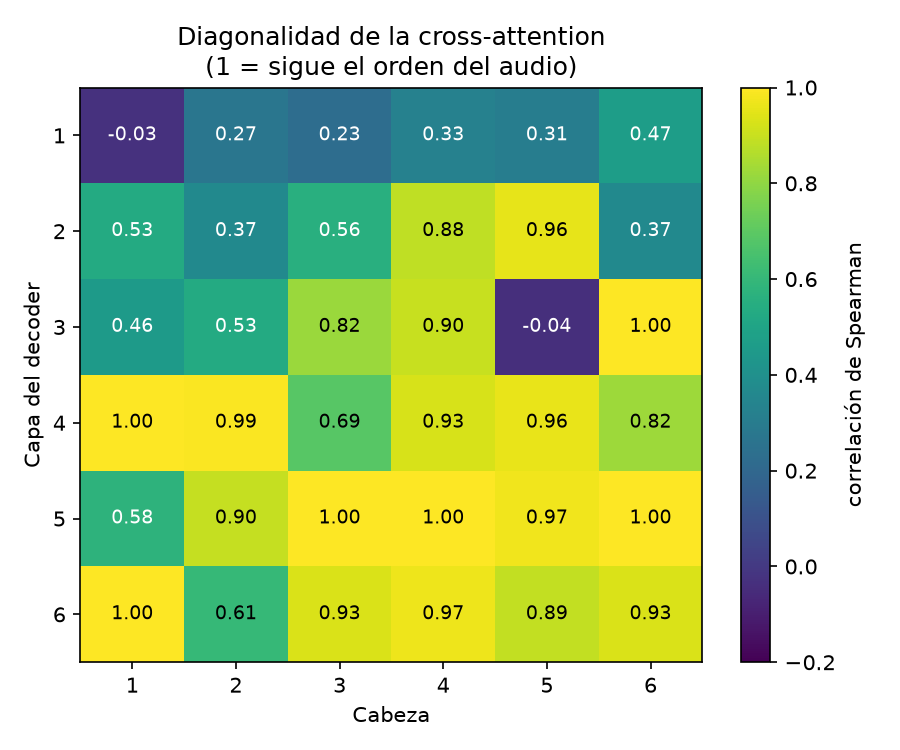
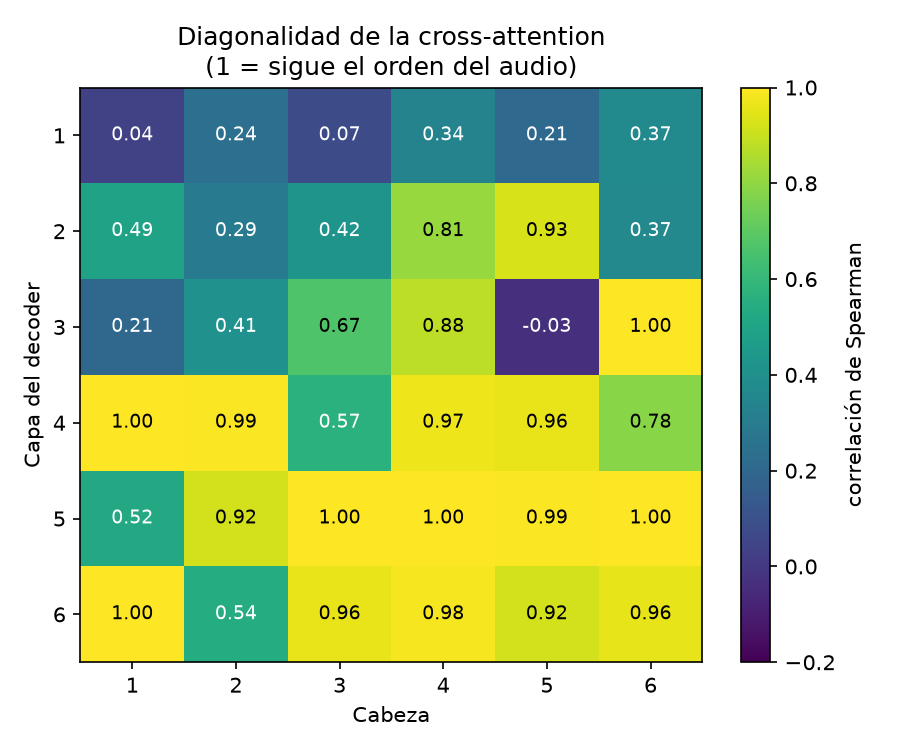
Seccion 6: resultados con 36 frases (392 palabras), libro vs cotidiano, IC95 bootstrap

diff --git a/scripts/graficar_resultados.py b/scripts/graficar_resultados.py
@@ -82,3 +82,50 @@ if mu:
               f"primeras {k} de {len(ref)} palabras (suponiendo ritmo constante): WER ≈ {w:.3f}")
     except ImportError:
         print("(instala jiwer para calcular el WER de muylarga sobre la parte procesada)")
+
+# --- libro contra frases cotidianas (WER global por grupo, con IC95 bootstrap por frase)
+import random
+
+def _grupo(f):
+    a = f["archivo"]
+    if a.startswith(("corta", "media")):
+        return "libro"
+    if a.startswith("diaria"):
+        return "cotidiano"
+    return None
+
+def _wer(rows):
+    e = sum(float(f["wer"]) * int(f["palabras_ref"]) for f in rows)
+    p = sum(int(f["palabras_ref"]) for f in rows)
+    return 100 * e / p
+
+grupos = {"libro": [], "cotidiano": []}
+for f in filas:
+    g = _grupo(f)
+    if g:
+        grupos[g].append(f)
+if grupos["cotidiano"]:
+    random.seed(1)
+    est = {}
+    for g, rows in grupos.items():
+        boot = sorted(_wer([random.choice(rows) for _ in rows]) for _ in range(5000))
+        est[g] = (_wer(rows), boot[125], boot[4875], sum(int(f["palabras_ref"]) for f in rows))
+        print(f"{g}: WER {est[g][0]:.1f} % (IC95 {est[g][1]:.1f}-{est[g][2]:.1f}), {est[g][3]} palabras")
+    dif = sorted(_wer([random.choice(grupos['libro']) for _ in grupos['libro']])
+                 - _wer([random.choice(grupos['cotidiano']) for _ in grupos['cotidiano']]) for _ in range(5000))
+    print(f"Diferencia libro - cotidiano: {est['libro'][0]-est['cotidiano'][0]:.1f} puntos (IC95 {dif[125]:.1f} a {dif[4875]:.1f})")
+    fig, ax = plt.subplots(figsize=(6, 4))
+    xs_ = list(est)
+    vals = [est[g][0] for g in xs_]
+    err = [[est[g][0] - est[g][1] for g in xs_], [est[g][2] - est[g][0] for g in xs_]]
+    ax.bar(xs_, vals, yerr=err, capsize=6, color=["#C98B6B", "#6A9BC3"])
+    ax.axhline(18.5, color="#555", ls="--", lw=1)
+    ax.text(1.45, 19.2, "artículo: 18.5 %", ha="right", fontsize=8, color="#555")
+    for i, g in enumerate(xs_):
+        ax.text(i, 1.5, f"n = {est[g][3]} palabras", ha="center", fontsize=8, color="white")
+    ax.set_ylabel("WER (%)")
+    ax.set_ylim(0, 40)
+    ax.set_title("WER: frases del libro vs frases cotidianas\n(barras de error: IC 95 % por remuestreo de frases)")
+    fig.tight_layout()
+    fig.savefig(carpeta / "p1_libro_vs_cotidiano.png", dpi=150)
+    plt.close(fig)

diff --git a/README.md b/README.md
@@ -1710,117 +1710,131 @@ La primera prueba documentada de la aplicación, con su captura de pantalla en [
 
 #### 6.10.1 Diseño de las pruebas con referencia
 
-Para medir el error se grabaron 13 audios con la voz del autor, en un computador
+Para medir el error se grabaron 44 audios con la voz del autor, en un computador
 Windows sin GPU, con `ctc_weight = 0` y *beam search* de 5 (la configuración de la
-aplicación). El texto de referencia son fragmentos de la novela *Noches blancas*
-de Dostoievski (traducción al español de una edición digital libre), leídos en
-voz alta; los fragmentos y los audios no se publican en el repositorio.
+aplicación). Hay dos tipos de texto de referencia, para poder comparar:
+
+- **Libro:** 24 frases de *Noches blancas* de Dostoievski (traducción al español de
+  una edición digital libre), de 6 a 15 palabras. Es lenguaje literario del siglo
+  XIX, con palabras poco frecuentes.
+- **Cotidiano:** 12 frases escritas por nosotros, de 8 a 12 palabras, sobre
+  situaciones de todos los días (café, reunión, bus, llaves).
+
+Los fragmentos del libro y los audios no se publican en el repositorio.
 
 | Grupo | Audios | Contenido |
 |---|---|---|
-| Frases cortas | `corta01` a `corta04` | 9 a 10 palabras |
-| Frases medias | `media01` a `media04` | 13 a 16 palabras |
+| Frases del libro | `corta01` a `corta12`, `media01` a `media12` | 24 frases, 256 palabras |
+| Frases cotidianas | `diaria01` a `diaria12` | 12 frases, 136 palabras |
 | Largo | `larga` (26 s), `muylarga` (42 s) | 68 y 109 palabras; `muylarga` supera la ventana de 30 s |
-| Inglés | `ingles01` | Una frase de 13 palabras |
+| Inglés | `ingles01` a `ingles04` | 4 frases de 10 a 13 palabras |
 | Traducción | `traduccion01` | Una frase en español pedida con `<st_eng>` |
 | Silencio | `silencio` (19 s) | Sin hablar |
 
-Las pruebas con ruido y de *beam search* usan solo las 8 frases cortas y medias
-(94 palabras). Antes de calcular el error, ambos textos se normalizan: minúsculas,
-sin puntuación y números escritos con palabras. Todo se ejecutó con
-`scripts/evaluar.py` (sección 6.11) y las cifras salen de `resultados/`.
+Las pruebas con ruido y de *beam search* usan las 36 frases (392 palabras). Antes de
+calcular el error, ambos textos se normalizan: minúsculas, sin puntuación y números
+escritos con palabras. Todo se ejecutó con `scripts/evaluar.py` (sección 6.11).
+
+Con pocas palabras, el WER cambia mucho de una muestra a otra. Por eso, en esta
+sección el WER global se acompaña de un **intervalo de confianza del 95 %**,
+calculado remuestreando frases completas (*bootstrap*, 5000 repeticiones).
 
 #### 6.10.2 Precisión: WER y CER
 
-| Audio | Duración (s) | Palabras ref. | Tokens | Tiempo (s) | RTF | Confianza | WER | CER |
-|---|---|---|---|---|---|---|---|---|
-| corta01 | 11.1 | 9 | 13 | 3.7 | 0.33 | 0.80 | 22.2 % | 5.8 % |
-| corta02 | 6.6 | 9 | 17 | 5.0 | 0.75 | 0.68 | 44.4 % | 9.1 % |
-| corta03 | 5.9 | 10 | 13 | 4.6 | 0.78 | 0.79 | 20.0 % | 4.0 % |
-| corta04 | 6.2 | 9 | 20 | 5.6 | 0.90 | 0.76 | 33.3 % | 12.0 % |
-| media01 | 7.5 | 13 | 21 | 4.8 | 0.64 | 0.87 | 7.7 % | 1.4 % |
-| media02 | 7.1 | 15 | 26 | 6.1 | 0.86 | 0.73 | 33.3 % | 8.6 % |
-| media03 | 7.2 | 16 | 27 | 6.9 | 0.96 | 0.71 | 31.2 % | 12.5 % |
-| media04 | 6.5 | 13 | 23 | 6.9 | 1.05 | 0.66 | 23.1 % | 9.4 % |
-| larga | 26.3 | 68 | 110 | 24.4 | 0.93 | 0.71 | 26.5 % | 6.0 % |
-| muylarga | 42.2 | 109 | 119 | 24.8 | 0.59 | 0.77 | 46.8 % (≈ 24.7 %) | 34.7 % |
-| ingles01 | 7.4 | 13 | 15 | 5.9 | 0.80 | 0.85 | 0.0 % | 0.0 % |
+| Grupo | Palabras | Palabras erradas | WER | IC 95 % |
+|---|---|---|---|---|
+| Libro, frases cortas (`corta`) | 100 | 24 | 24.0 % | |
+| Libro, frases medias (`media`) | 156 | 36 | 23.1 % | |
+| **Libro, total** | 256 | 60 | **23.4 %** | 17.7 a 29.2 |
+| **Cotidiano** | 136 | 21 | **15.4 %** | 7.0 a 24.5 |
+| **Las 36 frases** | 392 | 81 | **20.7 %** | 15.7 a 25.8 |
+| Largo (`larga`, 26 s) | 68 | | 26.5 % | |
+| Inglés (4 frases) | 44 | 5 | 11.4 % | |
 
 ![WER por frase](docs/figuras/p1_wer_por_frase.png)
 
+![Libro contra cotidiano](docs/figuras/p1_libro_vs_cotidiano.png)
+
 **Resultados:**
 
-1. **WER global de las 8 frases: 26.6 %** (25 palabras erradas de 94): 29.7 % en las
-   cortas y 24.6 % en las medias. El artículo reporta 18.5 % para el modelo base en
-   español leído (sección 6.5). La diferencia es plausible, pero con solo 94
-   palabras el intervalo de confianza es de unos ±9 puntos, así que no se puede
-   afirmar que sea mayor ni menor. Además, el texto es una traducción literaria
-   con vocabulario poco frecuente y la voz y el micrófono son distintos de los del
-   conjunto de prueba del artículo.
-2. **El CER es mucho menor que el WER** (1.4 % a 12.5 %): las palabras erradas
-   suelen parecerse en sonido a la correcta. Un ejemplo es "adiviné", que el modelo
-   escribió "a diviner". Un error de una letra o de una división de palabra cuenta
-   como palabra entera en el WER.
-3. **La confianza anticipa el error.** Entre las 8 frases, la confianza media por
-   token y el WER tienen una correlación de −0.73: las frases con confianza menor
-   (corta02, 0.68; media04, 0.66) son de las más erradas, y la de mayor confianza
-   (media01, 0.87) tiene el WER más bajo (7.7 %). Con 8 puntos es una tendencia,
-   no una prueba.
-4. **`muylarga`.** El WER crudo (46.8 %) está inflado: el modelo solo procesó los
+1. **WER global de las 36 frases: 20.7 %** (81 palabras erradas de 392), con un
+   intervalo de 15.7 a 25.8 %. El artículo reporta 18.5 % para el modelo base en
+   español leído (sección 6.5), que cae dentro del intervalo: **no podemos decir
+   que el modelo rinda peor ni mejor que lo que reporta el artículo.**
+2. **Libro contra cotidiano.** Con frases cotidianas el WER fue 15.4 %, frente a
+   23.4 % con las del libro, una diferencia de 8.0 puntos. Va en el sentido que
+   esperábamos (el vocabulario literario cuesta más), pero **el intervalo de la
+   diferencia va de −2.8 a 18.3 puntos**: con estos datos no se puede asegurar que
+   sea real. Además, el libro tiene palabras muy poco frecuentes en las que el
+   modelo falla ("abuelita", "sollozo", "niebla" salieron "vuelita", "soyoso",
+   "nieula"), pero también falló en palabras comunes ("hasta mañana" salió "esta
+   mañana"). Hay más frases cotidianas perfectas (5 de 12) que del libro (2 de 24).
+3. **El CER es menor que el WER** (5.0 % a 7.0 % de promedio contra 15 a 23 %): las
+   palabras erradas suelen parecerse en sonido a la correcta. Un error de una
+   letra cuenta como palabra entera en el WER.
+4. **La confianza anticipa el error, pero poco.** En las 36 frases, la confianza
+   media por token y el WER tienen una correlación de −0.43: las frases con más
+   confianza tienden a tener menos error, pero con mucha dispersión. Sirve como
+   señal de alerta, no como medida.
+5. **`muylarga`.** El WER crudo (46.8 %) está inflado: el modelo solo procesó los
    primeros 30 s (sección 6.10.7). Contra la parte de la referencia que cabe en
    ese tiempo (las primeras 77 de 109 palabras, suponiendo ritmo constante), el WER
    es de ≈ 24.7 %, parecido al de `larga`.
 
 #### 6.10.3 Efecto del ruido
 
-Se sumó ruido blanco gaussiano a las 8 frases con una relación señal/ruido (SNR)
+Se sumó ruido blanco gaussiano a las 36 frases con una relación señal/ruido (SNR)
 dada. Una SNR menor significa más ruido.
 
 | Condición | WER |
 |---|---|
-| Sin ruido | 26.6 % |
-| SNR 20 dB | 36.2 % |
-| SNR 10 dB | 52.1 % |
-| SNR 5 dB | 67.0 % |
+| Sin ruido | 20.7 % |
+| SNR 20 dB | 24.0 % |
+| SNR 10 dB | 40.6 % |
+| SNR 5 dB | 55.4 % |
 
 ![WER contra ruido](docs/figuras/p2_ruido.png)
 
-El WER sube a medida que baja la SNR: de 26.6 % a 67.0 % con SNR de 5 dB. Es
-una prueba con ruido sintético y blanco, que es más fácil de reproducir que el de
-un lugar real pero no representa por sí sola un ambiente ruidoso real.
+El WER sube a medida que baja la SNR: de 20.7 % a 55.4 % con SNR de 5 dB, es decir
+que con ese nivel de ruido el modelo se equivoca en más de la mitad de las
+palabras. Es ruido blanco sintético, fácil de reproducir pero distinto del ruido
+de un lugar real (voces, ventiladores, calle), así que las cifras son una guía y no
+una predicción para un ambiente concreto.
 
 #### 6.10.4 *Beam search* de 5 contra *greedy*
 
-| Beam | WER (8 frases) | Tiempo medio por frase |
+| Beam | WER (36 frases) | Tiempo medio por frase |
 |---|---|---|
-| 1 (*greedy*) | 33.0 % | 2.2 s |
-| 5 | 26.6 % | 5.2 s |
+| 1 (*greedy*) | 21.7 % | 1.8 s |
+| 5 | 20.7 % | 4.6 s |
 
 ![Beam search](docs/figuras/p3_beam.png)
 
-El *beam search* de 5 reduce el WER en 6.4 puntos (unas 6 palabras de 94) y
-cuesta unas 2.4 veces más tiempo. Con tan pocas palabras la diferencia es
-orientativa. Estos tiempos no incluyen la segunda pasada para leer la atención,
-por eso son menores que los de la tabla 6.10.2.
+La diferencia de WER es de 1 punto (unas 4 palabras de 392), pequeña frente al
+intervalo de ±5 puntos de la medición, así que **no hay evidencia de que el beam
+search de 5 mejore el resultado en este conjunto**. Sí cuesta unas 2.6 veces más
+tiempo. En una primera corrida, con solo 8 frases (94 palabras), la diferencia
+parecía de 6 puntos; con más datos desapareció. Esto muestra por qué hace falta una
+muestra grande antes de sacar conclusiones. Estos tiempos no incluyen la segunda
+pasada para leer la atención.
 
 #### 6.10.5 Tiempo de inferencia
 
 ![Tiempo contra tokens](docs/figuras/p1_tiempo_vs_tokens.png)
 
-En los audios con voz, el tiempo de inferencia sigue casi una recta con los tokens
-que escribe el decoder: **≈ 1.8 s + 0.20 s por token**, con correlación de 0.99.
-Eso es coherente con el funcionamiento autorregresivo (sección 5.6): el
+En los audios con voz (43 audios), el tiempo de inferencia sigue casi una recta con
+los tokens que escribe el decoder: **≈ 2.2 s + 0.18 s por token**, con correlación
+de 0.99. Es coherente con el funcionamiento autorregresivo (sección 5.6): el
 encoder corre una sola vez y el decoder corre una vez por cada token.
 
-**Corrección a la sección 6.10.1 del análisis de la prueba inicial.** Allí se
-atribuyó el RTF alto al costo fijo del encoder. Nuestras mediciones muestran que
-la parte fija es pequeña (≈ 1.8 s en este computador) y que el tiempo depende sobre
-todo de la cantidad de tokens. Como los audios más largos también tienen más
-tokens, la duración y el tiempo están correlacionados (0.93), pero el tiempo se
-explica mejor por los tokens. El RTF de los audios cortos es alto porque el
-audio grabado tiene pocos segundos de habla, no por un costo fijo del encoder. En
-este computador el RTF de los audios con voz fue de 0.33 a 1.22, mucho menor
-que el 5.69 de la prueba inicial, que se hizo en otro equipo.
+**Matiz sobre la sección anterior (prueba inicial).** El análisis de la primera
+prueba atribuye el RTF alto al costo fijo del encoder, que procesa siempre los
+30 s. Nuestras mediciones respaldan que existe una parte fija, pero pequeña en este
+equipo (≈ 2.2 s, frente a los ≈ 21 s de la prueba inicial) y que el resto depende
+de los tokens. Esa parte fija pesa mucho en audios muy cortos (`corta05`, de
+2.9 s, tuvo RTF 2.1) y poco en los largos. En general el RTF de los audios con voz
+fue de 0.3 a 2.1, con promedio de 0.98 (con la salvedad de que las pruebas se
+hicieron en un computador distinto al de la prueba inicial).
 
 ![RTF por audio](docs/figuras/p1_rtf_sin_silencio.png)
 
@@ -1828,12 +1842,13 @@ que el 5.69 de la prueba inicial, que se hizo en otro equipo.
 
 | Medida | Valor |
 |---|---|
-| WER global, 8 frases con beam 5 | 26.6 % (94 palabras) |
+| WER global, 36 frases con beam 5 | 20.7 % (392 palabras, IC 95 % 15.7 a 25.8) |
+| WER libro / cotidiano | 23.4 % / 15.4 % (diferencia no concluyente) |
 | Referencia del artículo, español, modelo base | 18.5 % (sección 6.5) |
-| WER con SNR de 20, 10 y 5 dB | 36.2 %, 52.1 % y 67.0 % |
-| WER con *greedy* | 33.0 % |
-| Tiempo medio con voz y beam 5 | 8.6 s por audio (RTF medio 0.82, 12 audios con voz) |
-| Tiempo por token | ≈ 0.20 s, más ≈ 1.8 s fijos |
+| WER con SNR de 20, 10 y 5 dB | 24.0 %, 40.6 % y 55.4 % |
+| WER con *greedy* | 21.7 % (sin diferencia clara con beam 5) |
+| Tiempo medio con voz y beam 5 | 6.2 s por audio (RTF medio 0.98, 43 audios) |
+| Tiempo por token | ≈ 0.18 s, más ≈ 2.2 s fijos |
 
 #### 6.10.7 Audio de más de 30 s
 
@@ -1846,24 +1861,29 @@ alineación en todo el audio (sección 6.12).
 
 #### 6.10.8 Inglés y traducción
 
-- **Inglés** (`ingles01`, una frase de 13 palabras): WER de 0.0 % y confianza de
-  0.85. Es un solo ejemplo y no equivale a medir el WER en inglés; para eso está la
-  tabla del artículo (12.1 % de promedio para el modelo base, sección 6.4).
+- **Inglés** (4 frases, 44 palabras): WER de 11.4 %. Casi todos los errores son
+  verbos en pasado o presente que el modelo escribió sin la terminación ("record"
+  por "recorded", "stage" por "stayed"), que quizás se debe a la pronunciación del
+  autor, hablante nativo de español; no lo comprobamos. Son pocas frases y una sola
+  voz, así que no equivale a medir el WER en inglés; para eso está la tabla del
+  artículo (12.1 % de promedio para el modelo base, sección 6.4).
 - **Traducción de español a inglés** (`traduccion01`): la salida mezcla palabras
   en inglés y español y no se entiende como una traducción; la confianza media
   fue de 0.40, la más baja salvo el silencio. Es coherente con el BLEU de 10.0 que
-  el artículo reporta para el modelo base en esta dirección (sección 6.6).
+  el artículo reporta para el modelo base en esta dirección (sección 6.6). Es una
+  sola frase.
 
 #### 6.10.9 Silencio: alucinación
 
 Con 19 s de silencio el modelo no devolvió una cadena vacía: escribió 48 tokens
-que repiten una misma frase varias veces. Dos observaciones:
+que repiten una misma frase varias veces. Esto ocurrió igual en las dos corridas.
+Dos observaciones:
 
 - La confianza media fue la más baja de todas (0.31), por lo que podría servir
   para detectar este caso.
-- La inferencia tardó 191 s (RTF 9.95), frente a los 24 s de `larga`, que
-  escribió 110 tokens (más del doble). No medimos la causa, pero es compatible con que
-  la búsqueda no terminara pronto (`maxlenratio = 0` permite hasta 749 tokens,
+- La inferencia tardó 176 s (RTF 9.1) frente a los 23 s de `larga`, que
+  escribió 110 tokens (más del doble). No medimos la causa, pero es compatible con
+  que la búsqueda no terminara pronto (`maxlenratio = 0` permite hasta 749 tokens,
   sección 4.4).
 
 La atención en este caso se ve en la sección 6.12.
@@ -1917,17 +1937,17 @@ modelo atiende al lugar correcto y se equivoca al escribir.
 
 **3. Las capas y las cabezas se especializan.** Para cada capa y cabeza se midió
 la correlación de Spearman entre el orden de los tokens y el orden de los frames
-donde más atienden (1 es una diagonal perfecta), promediada sobre los 11
-audios con voz. Esta medida solo comprueba el orden, no que el pico caiga
+donde más atienden (1 es una diagonal perfecta), promediada sobre los 42
+audios con voz (frases, largos e inglés). Esta medida solo comprueba el orden, no que el pico caiga
 exactamente en el lugar correcto.
 
 ![Diagonalidad por capa y cabeza](docs/figuras/p1_diagonalidad.png)
 
 | Capa | 1 | 2 | 3 | 4 | 5 | 6 |
 |---|---|---|---|---|---|---|
-| Diagonalidad media | 0.26 | 0.61 | 0.61 | 0.90 | 0.91 | 0.89 |
+| Diagonalidad media | 0.21 | 0.55 | 0.52 | 0.88 | 0.91 | 0.89 |
 
-12 de las 18 cabezas de las capas 4 a 6 superan 0.9, frente a 3 de las 18 de las
+14 de las 18 cabezas de las capas 4 a 6 superan 0.9, frente a 2 de las 18 de las
 capas 1 a 3. Las últimas capas son las que alinean el texto con el audio, y las
 primeras atienden de forma más dispersa. Dentro de una misma capa también hay
 diferencias: en la capa 6, la cabeza 2 reparte la atención de forma difusa y las
@@ -1954,19 +1974,20 @@ Su ausencia, junto con una confianza baja, delata una alucinación.
 - **Ventana fija de 30 s.** Los audios más largos se recortan (`muylarga`: de 42 a
   30 s) y el artículo muestra que el modelo rinde peor en audio largo (sección 6.7).
 - **Pocos datos por idioma.** El modelo base obtiene 18.5 % de WER en español leído
-  según el artículo, y 26.6 % en nuestra prueba pequeña. En portugués y polaco
+  según el artículo, y 20.7 % en nuestras 36 frases (IC 95 % de 15.7 a 25.8). En portugués y polaco
   supera el 44 % (sección 6.5). El límite son los datos, no la arquitectura.
-- **Sensibilidad al ruido.** Con SNR de 5 dB, el WER sube a 67.0 %.
+- **Sensibilidad al ruido.** Con SNR de 5 dB, el WER sube a 55.4 %.
 - **Traducción débil.** BLEU de 10.0 de español a inglés en el artículo, y salida
   ininteligible en nuestra prueba (sección 6.10.8).
 - **Alucinación con silencio.** Escribe texto repetido, con confianza baja, y tardó
-  191 s (sección 6.10.9).
+  176 s (sección 6.10.9).
 - **Identificación de idioma poco fiable.** Solo el 41.9 % de exactitud en el base
   (sección 6.8), por eso la aplicación fija el idioma en el prompt.
-- **Velocidad.** El tiempo depende de los tokens (≈ 0.20 s por token en nuestro
+- **Velocidad.** El tiempo depende de los tokens (≈ 0.18 s por token en nuestro
   equipo, sin GPU) y no hay garantía de tiempo real.
-- **Alcance de las pruebas propias.** Una sola voz y un solo micrófono, 94 palabras
-  en las pruebas de precisión, ruido blanco sintético y un solo audio en inglés.
+- **Alcance de las pruebas propias.** Una sola voz y un solo micrófono, 392 palabras
+  en las pruebas de precisión (intervalo de ±5 puntos), ruido blanco sintético y
+  4 frases en inglés.
   Las cifras son orientativas y no equivalen a evaluar en los conjuntos oficiales.
 - **Sin CTC en la inferencia.** Se usa `ctc_weight = 0` para poder explicar la
   salida con la cross-attention; la decodificación híbrida suele ser más robusta
@@ -1977,7 +1998,7 @@ Su ausencia, junto con una confianza baja, delata una alucinación.
 - **Audios largos:** usar `decode_long()`, que ESPnet sugiere en su advertencia, o
   procesar por ventanas de 30 s avanzando con las marcas de tiempo (sección 6.7).
 - **Silencio:** detectar la ausencia de voz antes de decodificar y limitar la longitud
-  máxima (`maxlenratio` mayor que 0) para evitar tiempos como los 191 s observados.
+  máxima (`maxlenratio` mayor que 0) para evitar tiempos como los 176 s observados.
 - **Confianza:** avisar al usuario cuando la confianza media sea baja (en nuestras
   pruebas, 0.31 en el silencio y 0.40 en la traducción fallida).
 - **Interfaz:** agregar un campo de texto de referencia para calcular WER y CER, y un
